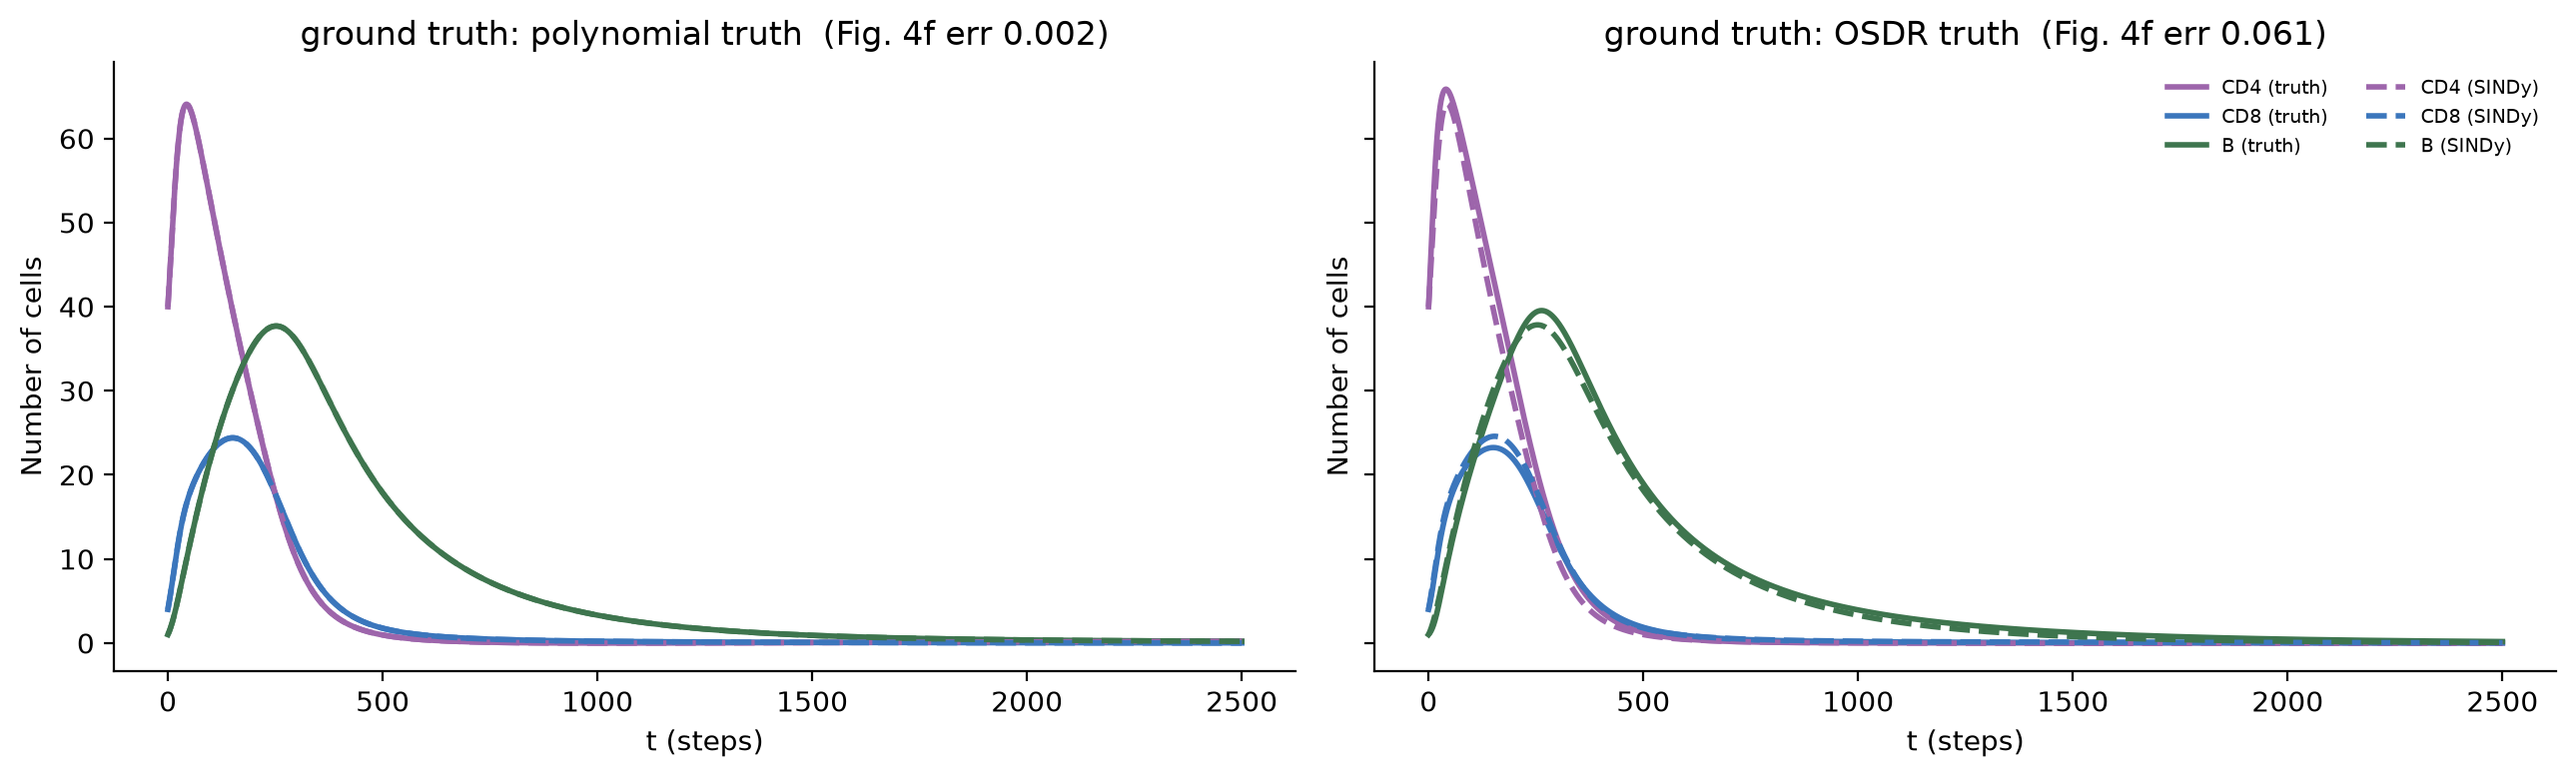
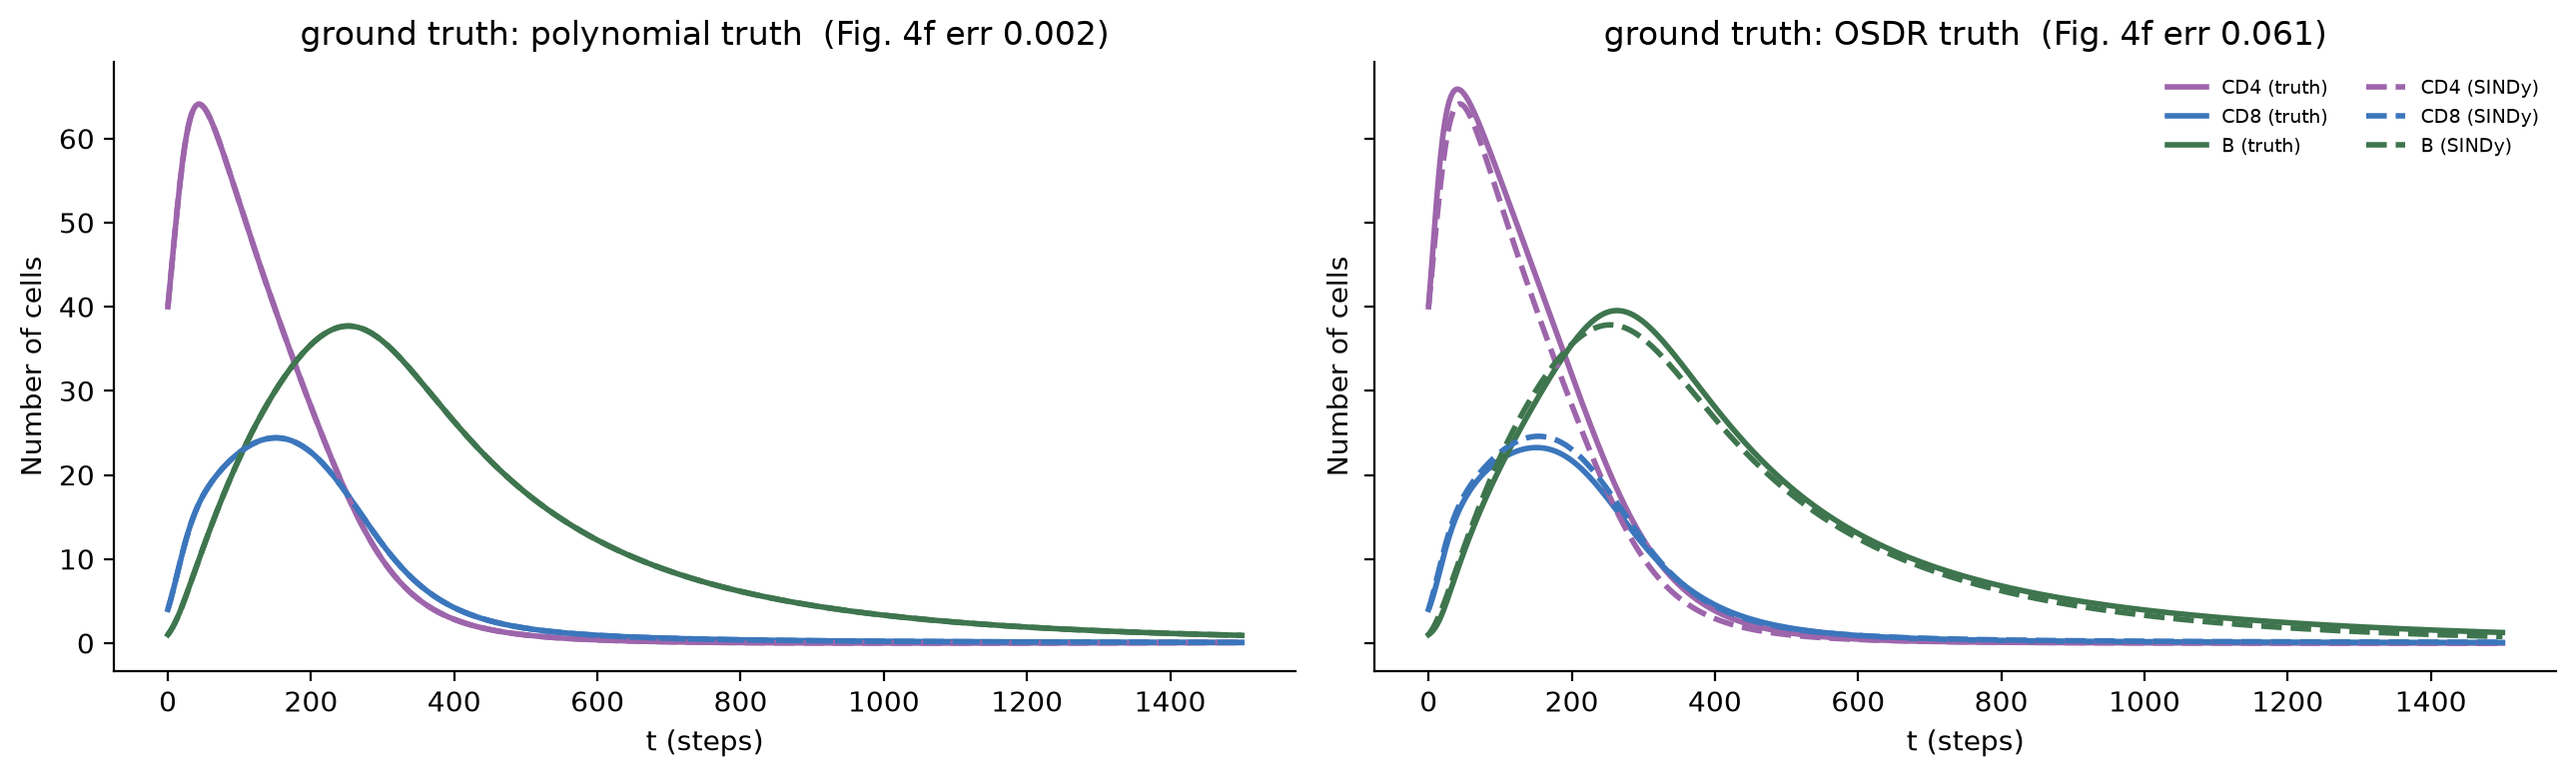
[refactor] SINDy with ODE camparison v1.0

diff --git a/project/part3_sindy.py b/project/part3_sindy.py
@@ -43,7 +43,7 @@ from osdr_ode import (
     with_b_inhibition_scale,
     with_death_scale,
 )
-from plotting import FIGURE_DIR, PROJECTIONS, plot_3d_trajectory, plot_timeseries, save
+from plotting import FIGURE_DIR, PROJECTIONS, plot_3d_overlay, plot_timeseries, save
 from report import write_ode_comparison
 from sindy_tools import (
     STATE_SCALE,
@@ -68,6 +68,7 @@ N_VAL = 20  # held-out trajectories for choosing the SINDy threshold
 N_TEST = 20  # held-out initial states for testing trajectories
 
 T_TEST = np.linspace(0, FIG4F_T_END, 5001)
+T_PLOT_MAX = 1500  # x-axis limit of all "number of cells vs. t" plots (trajectories are still integrated to 5000)
 
 
 """
@@ -257,7 +258,7 @@ Figures:
 """
 
 
-def plot_overlay_timeseries(ax, s_true, s_est, t_max=2500, label_true="OSDR", label_est="SINDy"):
+def plot_overlay_timeseries(ax, s_true, s_est, t_max=T_PLOT_MAX, label_true="OSDR", label_est="SINDy"):
     mask = T_TEST <= t_max
     plot_timeseries(ax, T_TEST[mask], s_true[mask], CELL_TYPES, CELL_COLORS, label_suffix=f" ({label_true})")
     plot_timeseries(ax, T_TEST[mask], s_est[mask], CELL_TYPES, CELL_COLORS, linestyle="--",
@@ -313,9 +314,9 @@ def exp_main(params, data_states, pools):
     ax.set_title("Fig. 4f initial state (out-of-sample): OSDR (solid) vs SINDy (dashed)")
     save(fig, "part3_main_timeseries.png")
 
-    lims = [(0, max(np.nanmax(s[:, i]), np.nanmax(g[:, i])) * 1.05) for i in range(3)]
-    save(plot_3d_trajectory(s, CELL_TYPES, "OSDR ODE (Fig. 4f)", lims=lims), "part3_main_3d_osdr.png")
-    save(plot_3d_trajectory(g, CELL_TYPES, "SINDy ODE", color="#E4572E", lims=lims), "part3_main_3d_sindy.png")
+    overlay = [(s, "OSDR", "#3B76BC", "-"), (g, "SINDy", "#E4572E", "--")]
+    fig = plot_3d_overlay(overlay, CELL_TYPES, "Fig. 4f trajectory: OSDR (solid) vs SINDy (dashed)", invert_y=True)
+    save(fig, "part3_main_3d.png")
     save(plot_projections(s, g, "2D projections of the Fig. 4f trajectory"), "part3_main_projections.png")
 
     settings = {"n_traj": len(fit.trajs), "n_initial_states": DEFAULT_N_TRAJ, "t_len": DEFAULT_T_LEN, "dt": DT,
@@ -338,7 +339,7 @@ def exp_length(params, data_states, pools):
 
     fig, axs = plt.subplots(2, 3, figsize=(14, 7))
     plot_metric_curves(axs[0], df, "length of each training time series (t_len)")
-    for ax, t_len in zip(axs[1], [100, 400, 1600]):
+    for ax, t_len in zip(axs[1], [25, 50, 200]):
         plot_overlay_timeseries(ax, rows[t_len]["sol_true"], rows[t_len]["sol_sindy"])
         ax.set_title(f"t_len = {t_len}")
         ax.get_legend().remove()

diff --git a/project/plotting.py b/project/plotting.py
@@ -59,3 +59,41 @@ def plot_3d_trajectory(
     ax.set_title(title)
     ax.legend(frameon=False, loc="upper left")
     return fig
+
+
+def plot_3d_overlay(trajectories, cell_types, title: str, plot_projections=True, invert_y: bool = False):
+    """Several trajectories in one 3D box, each with its own color / line style and wall projections.
+
+    trajectories: list of (sol, label, color, linestyle); all share the start state of the first one.
+    """
+    sols = [t[0] for t in trajectories]
+    lims = [(0, max(1.0, max(np.nanmax(s[:, i]) for s in sols) * 1.05)) for i in range(3)]
+    y_back = lims[1][0] if invert_y else lims[1][1]  # the CD8 wall at the back of the box
+
+    fig = plt.figure(figsize=(7, 7))
+    ax = fig.add_subplot(111, projection="3d", facecolor="white")
+
+    for sol, label, color, ls in trajectories:
+        xs, ys, zs = sol[:, 0], sol[:, 1], sol[:, 2]
+        ax.plot(xs, ys, zs, color=color, linewidth=3, linestyle=ls, label=label)
+        if plot_projections:
+            proj = dict(color=color, alpha=0.3, linewidth=2.5, linestyle=ls)
+            ax.plot(xs, ys, np.full_like(zs, lims[2][0]), **proj)
+            ax.plot(xs, np.full_like(ys, y_back), zs, **proj)
+            ax.plot(np.full_like(xs, lims[0][0]), ys, zs, **proj)
+
+    start = sols[0][0]
+    ax.scatter(*start, color="#6BBF59", s=70, label="Start state", depthshade=False, zorder=10)
+    for sol, label, color, _ in trajectories:
+        end = sol[~np.isnan(sol).any(axis=1)][-1]
+        ax.scatter(*end, color=color, s=60, marker="X", label=f"Final state ({label})", depthshade=False, zorder=10)
+
+    ax.set_xlim(*lims[0])
+    ax.set_ylim(*(lims[1][::-1] if invert_y else lims[1]))
+    ax.set_zlim(*lims[2])
+    ax.set_xlabel(cell_types[0])
+    ax.set_ylabel(cell_types[1])
+    ax.set_zlabel(cell_types[2])
+    ax.set_title(title)
+    ax.legend(frameon=False, loc="upper left")
+    return fig

diff --git a/project/report.py b/project/report.py
@@ -18,8 +18,7 @@ TERMS_PER_LINE = 4
 FIGURES = [
     ("Fig. 4f initial state: time series (solid OSDR, dashed SINDy)", "part3_main_timeseries.png"),
     ("2D projections of the Fig. 4f trajectory", "part3_main_projections.png"),
-    ("3D trajectory: OSDR", "part3_main_3d_osdr.png"),
-    ("3D trajectory: SINDy", "part3_main_3d_sindy.png"),
+    ("3D trajectory: OSDR (solid) vs SINDy (dashed)", "part3_main_3d.png"),
 ]
 
 

diff --git a/project/README.md b/project/README.md
@@ -116,7 +116,7 @@ python project/part3_sindy.py [--exp main|length|ntraj|params|control] [--show]
 
 | `--exp` | Question | Main output |
 | --- | --- | --- |
-| `main` | What ODE does SINDy find, and how close is it to OSDR? | printed SINDy ODE and comparisons; `part3_main_timeseries.png`, `part3_main_3d_osdr.png`, `part3_main_3d_sindy.png`, `part3_main_projections.png`; `results/main_coefficients.csv`; **`results/main_ode_comparison.md`** (side-by-side report of the two ODEs) |
+| `main` | What ODE does SINDy find, and how close is it to OSDR? | printed SINDy ODE and comparisons; `part3_main_timeseries.png`, `part3_main_3d.png` (both 3D trajectories in one box), `part3_main_projections.png`; `results/main_coefficients.csv`; **`results/main_ode_comparison.md`** (side-by-side report of the two ODEs) |
 | `length` | How long must each time series be? (25 to 3200) | `part3_length.png` and a metrics table |
 | `ntraj` | How many trajectories are needed? (1 to 300, and "Fig. 4f only") | `part3_ntraj.png` and a metrics table |
 | `params` | Does SINDy still work after the Part 2 parameter changes? | `part3_params.png`; excitability thresholds for OSDR and SINDy |

diff --git a/project/results/main_ode_comparison.md b/project/results/main_ode_comparison.md
@@ -215,10 +215,6 @@ Relative trajectory error from the Fig. 4f initial state (not used for training)
 
 ![2D projections of the Fig. 4f trajectory](../figures/part3_main_projections.png)
 
-**3D trajectory: OSDR**
+**3D trajectory: OSDR (solid) vs SINDy (dashed)**
 
-![3D trajectory: OSDR](../figures/part3_main_3d_osdr.png)
-
-**3D trajectory: SINDy**
-
-![3D trajectory: SINDy](../figures/part3_main_3d_sindy.png)
+![3D trajectory: OSDR (solid) vs SINDy (dashed)](../figures/part3_main_3d.png)
